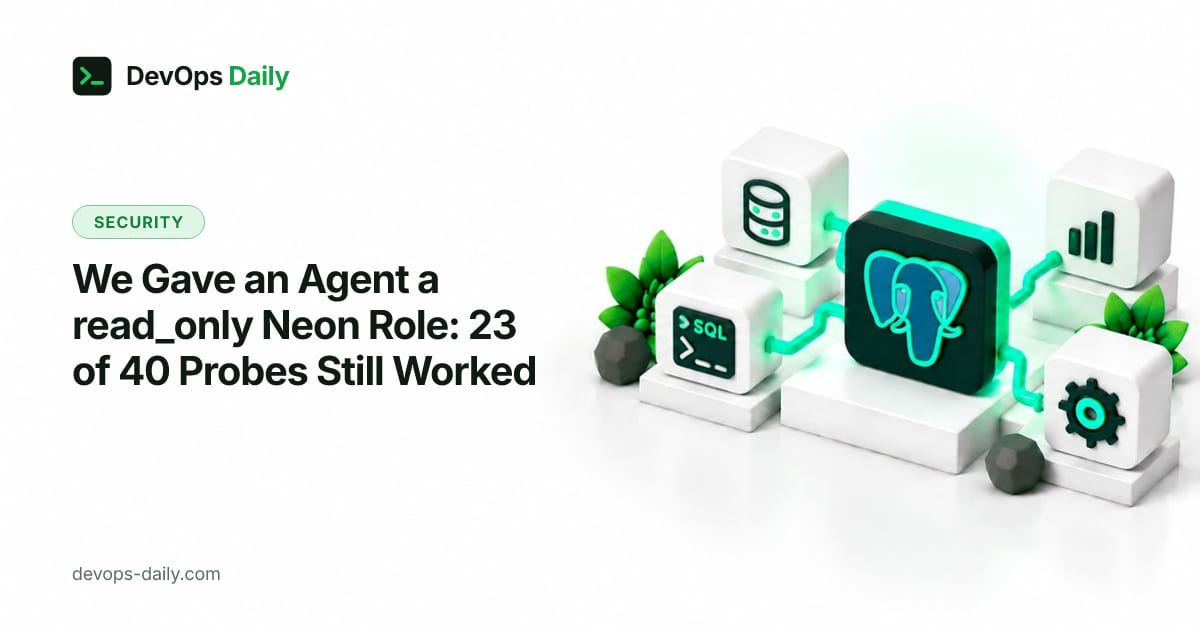
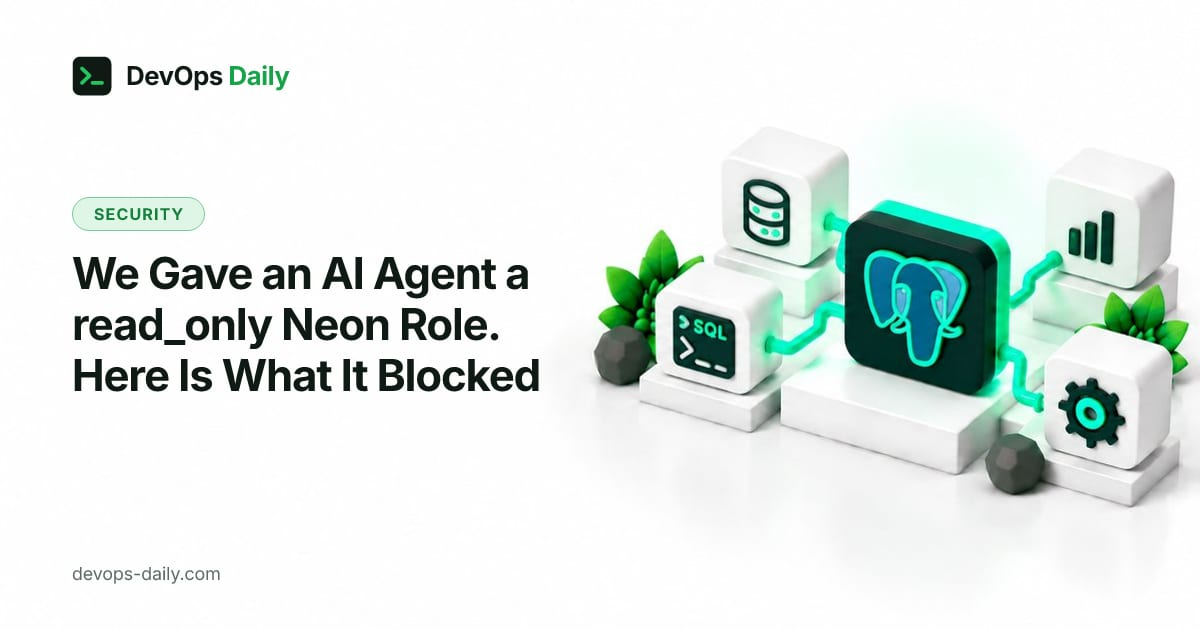
Neon post: lead with what the read_only role and MCP pin blocked

Changed region(s): [[0.0617, 0.3016, 0.4625, 0.6333]]

diff --git a/content/posts/neon-read-only-role-agent-probes.md b/content/posts/neon-read-only-role-agent-probes.md
@@ -1,6 +1,6 @@
 ---
-title: 'We Gave an Agent a read_only Neon Role: 23 of 40 Probes Still Worked'
-excerpt: 'A Neon read_only role blocked every INSERT, UPDATE, DELETE and schema change we sent, but over a direct connection 23 of 40 probes still ran, 4 of them durable writes. The read-only MCP mode stopped all 4, not the read that stalled a migration for up to 12.8 seconds.'
+title: 'We Gave an AI Agent a read_only Neon Role. Here Is What It Blocked'
+excerpt: 'A Neon read_only role blocked every INSERT, UPDATE, DELETE and schema change we sent, and the Neon MCP Server with a pinned role stopped every durable write. What still ran comes from standard Postgres defaults, and the real risk was a read that stalled a migration.'
 category:
   name: 'Security'
   slug: 'security'
@@ -28,6 +28,8 @@ The bigger risk was not a write. A 15-second read from the agent held a routine 
 
 ## TLDR
 
+- The Neon MCP Server with `readonly=true` and a pinned `read_only` role stopped every durable write we tried. That is the setup to give an agent.
+- Almost everything that still ran over a direct connection comes from standard Postgres defaults granted to `PUBLIC`, not from Neon. The same probes behave the same way on any Postgres, and a few `REVOKE` statements close most of them.
 - `neon roles create --access read_only` runs plain SQL as the database owner: `SELECT` on the tables that exist, `USAGE` on the schema, and default privileges for the owner's future tables. It does not touch what Postgres grants to `PUBLIC`.
 - Over a direct connection, that role could still create temp tables, call a `SECURITY DEFINER` function that writes, create a large object, change its own role settings, send `NOTIFY`, take advisory locks, and read a signing key from a function body.
 - The Neon MCP Server with `readonly=true&roleName=<role>` wraps each statement in a `READ ONLY` transaction and logs in as the pinned role. That blocked every durable write. `NOTIFY`, advisory locks and reading function source still worked.
